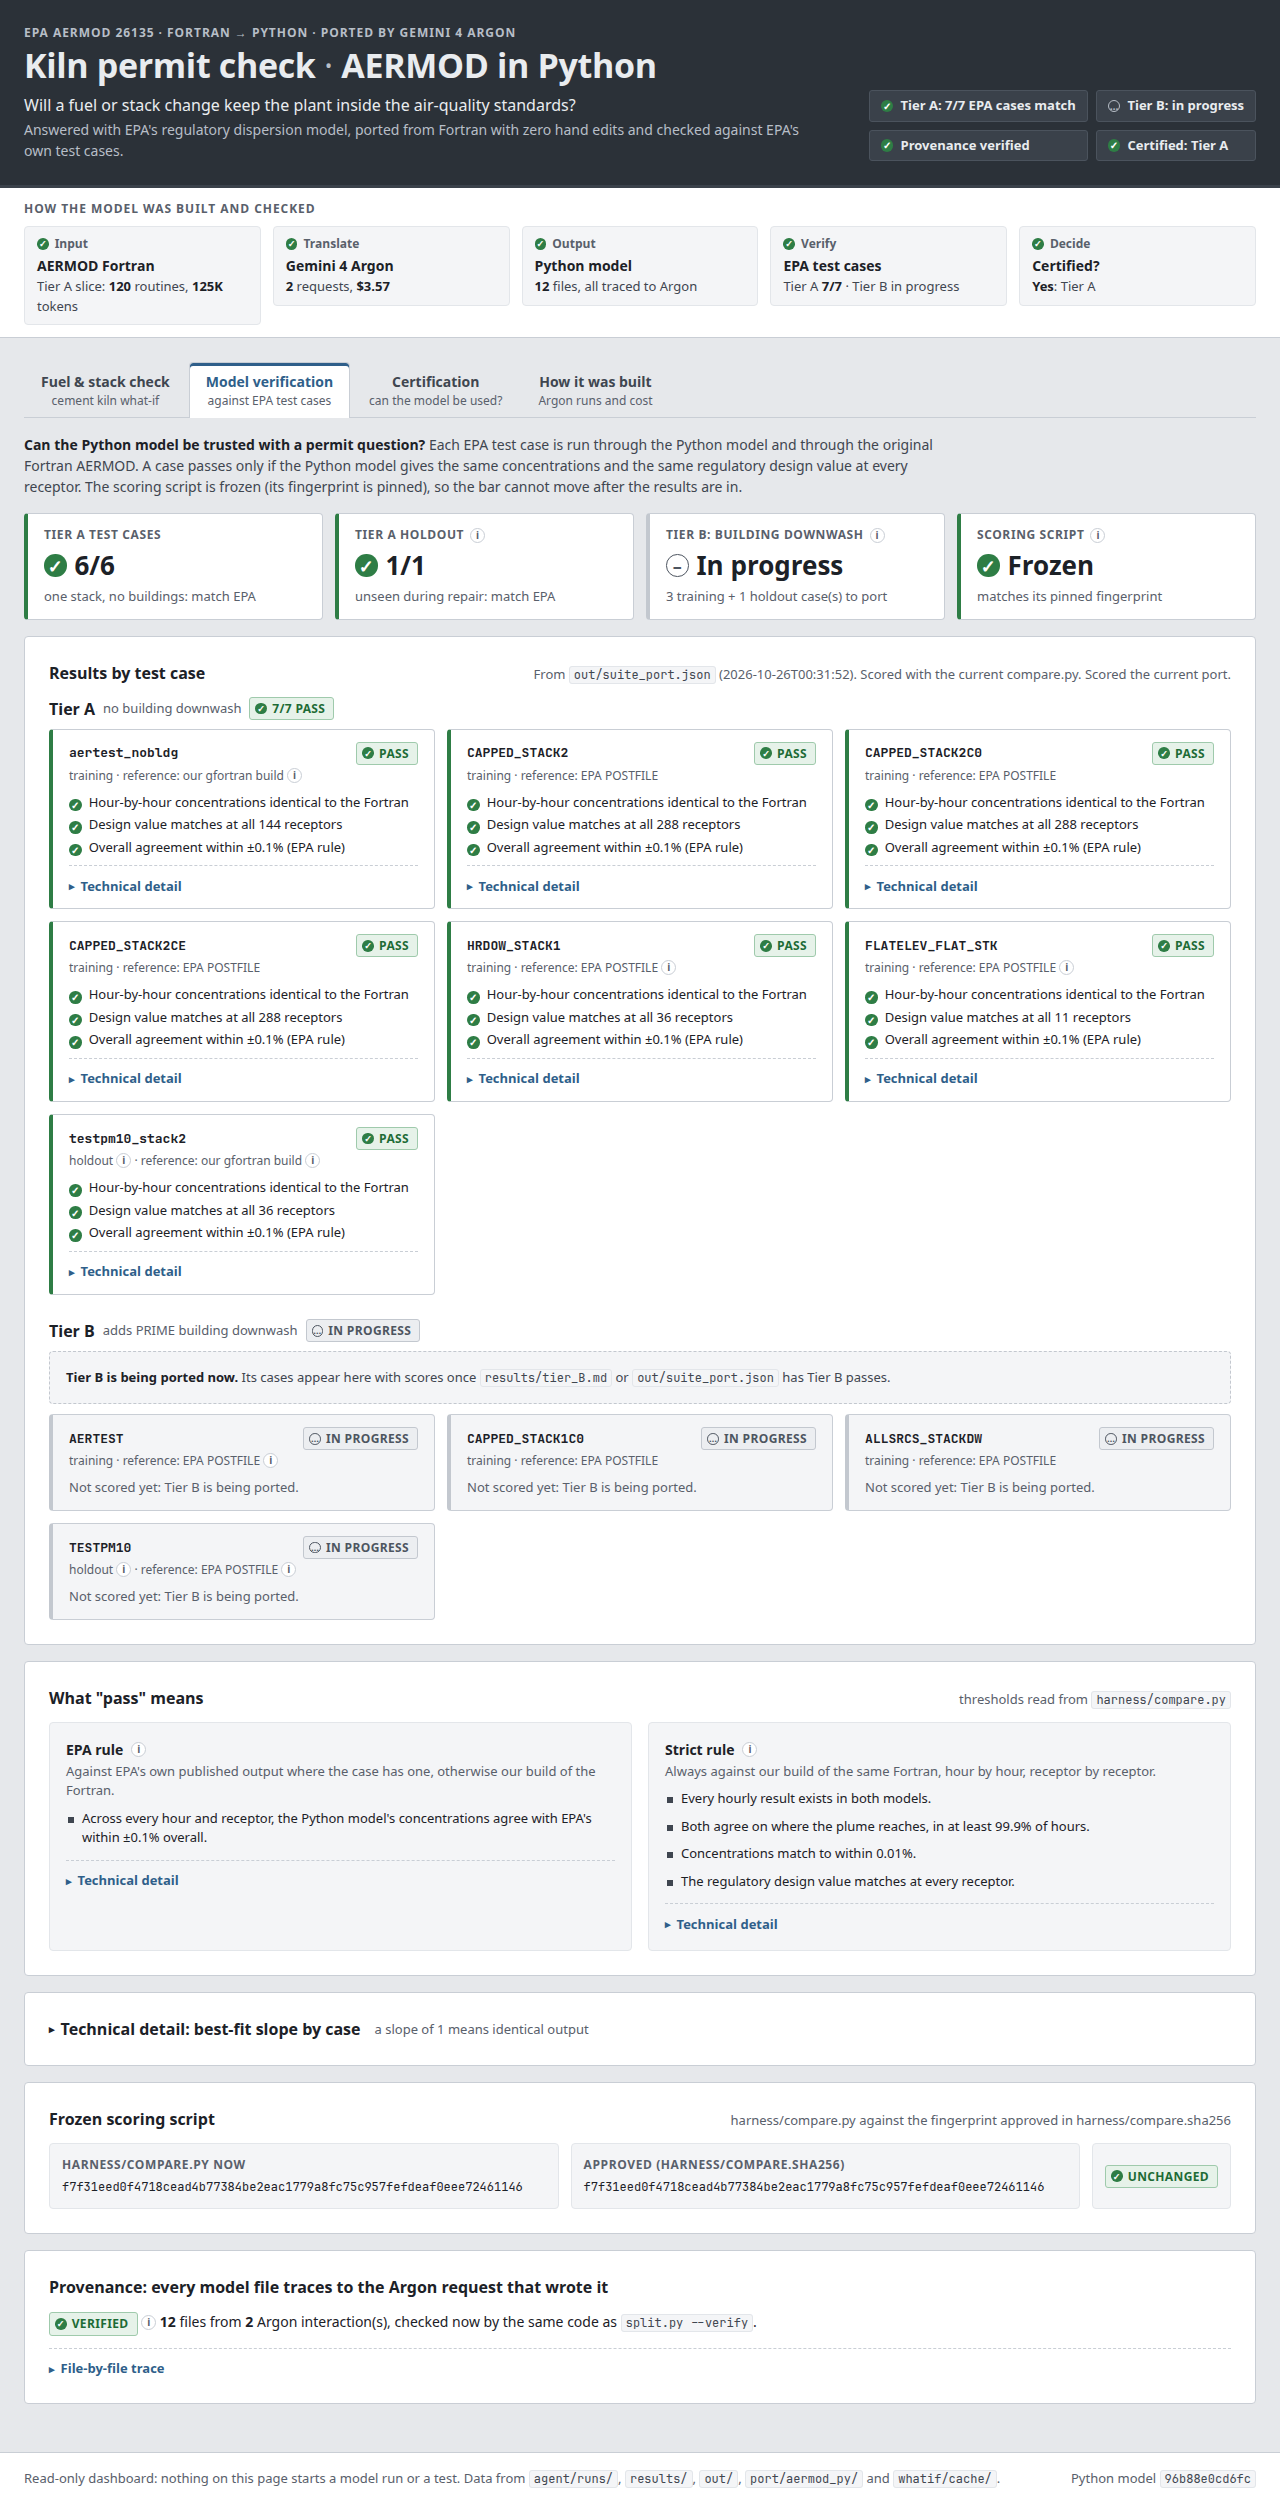
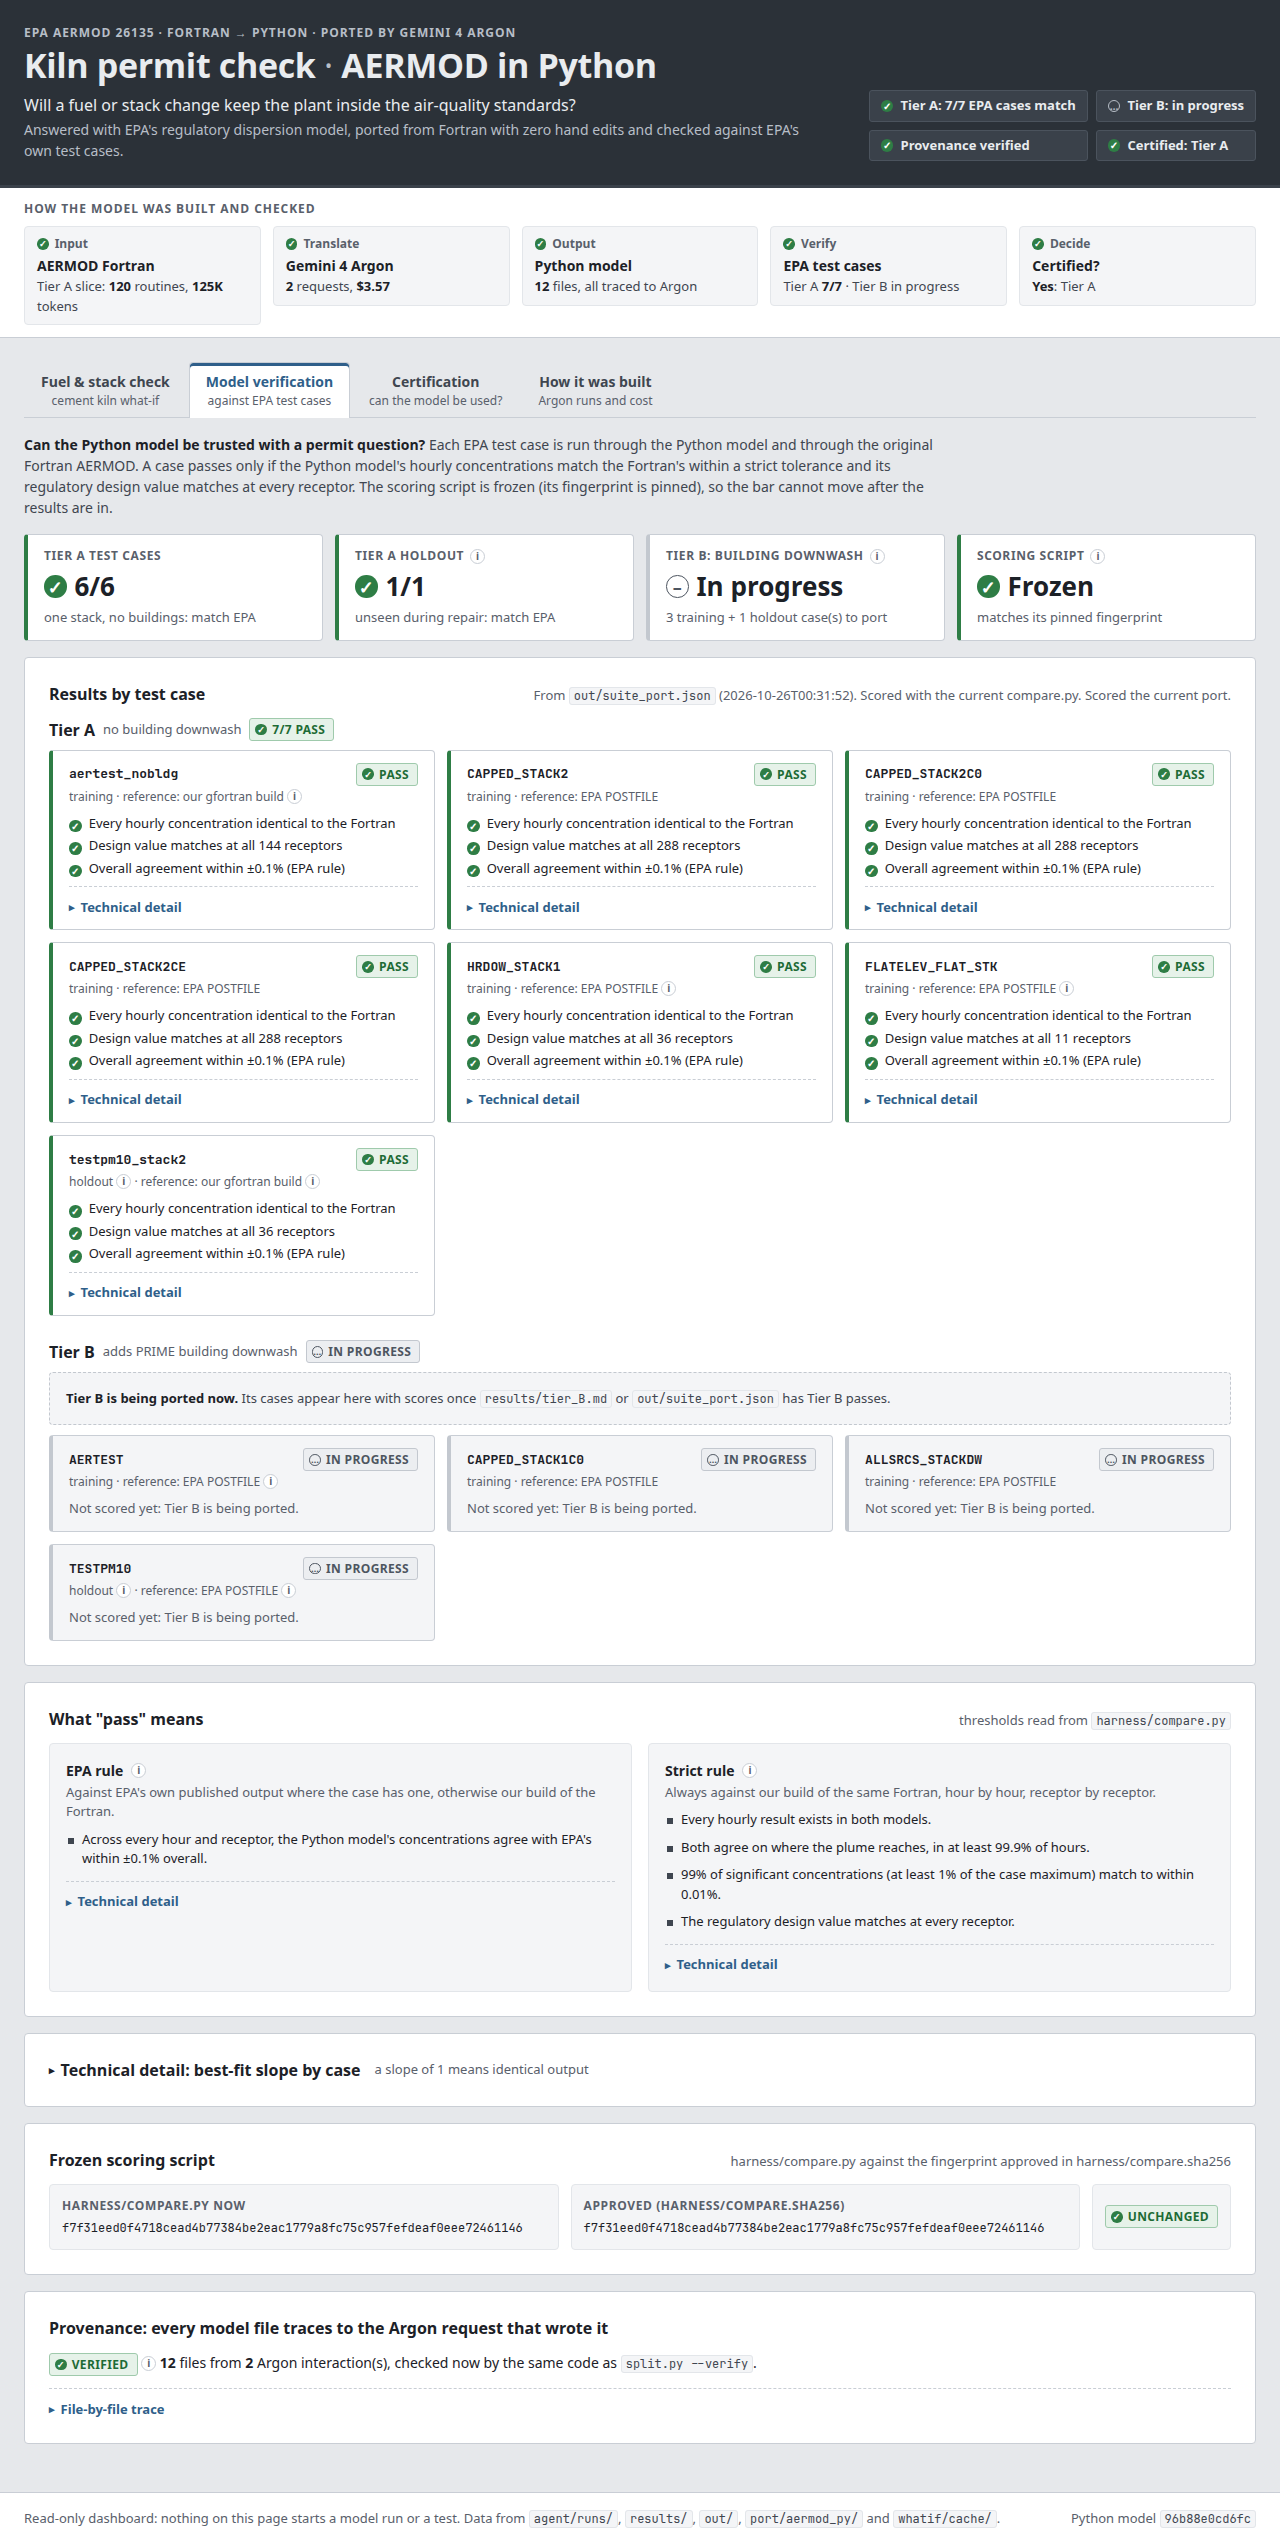
fix(ui): claim identical output only when the largest difference is zero
Per Greptile: the strict rule checks the 99th percentile of significant values,
so a zero p99 does not prove identical output. The suite's max_abs_diff is now
passed through and shown; otherwise the card states the percentile and cutoff.

diff --git a/ui/app.js b/ui/app.js
@@ -88,6 +88,8 @@ function glossary() {
     return {
         relPct: `${+(r.relative_tolerance * 100).toPrecision(3)}%`,
         slopePct: `${+(tol * 100).toPrecision(3)}%`,
+        pctl: `${r.percentile}%`,
+        sigPct: `${+(r.significant_fraction * 100).toPrecision(3)}%`,
         slope: `Plot every hourly concentration from the port against the reference and fit a line. A perfect port lies on a slope of exactly 1. The EPA rule allows 1 ± ${tol} (${+(tol * 100).toFixed(3)}%) and checks all three definitions EPA's kit uses: through the origin, ordinary least squares, and the ratio of the means.`,
         zero: `Share of paired hourly values where the port and the reference agree on whether there is any concentration at all (whether the plume reached the receptor). Must be at least ${pct(r.zero_agreement_min)}.`,
         p99: `Relative error |port − reference| / reference at the ${r.percentile}th percentile, over every value at least ${+(r.significant_fraction * 100).toFixed(2)}% of the case maximum. Must be ≤ ${rel}. 0 means the numbers are identical.`,
@@ -320,10 +322,11 @@ function caseCard(name, r, info, tierStatus, G) {
         const neutralFail = cls === 'prog' ? 'neutral' : 'bad';
         const mark = ok => ok === true ? ic('ok') : ok === false ? ic(neutralFail) : ic('neutral');
         const [fails, receptors] = String(r.h4h_fails ?? '').split('/').map(Number);
-        const exact = Number(r.p99_rel_err) === 0;
+        const identical = isNum(r.max_abs_diff) && Number(r.max_abs_diff) === 0;
         const plain = [
-            [r.strict_pass, exact && r.strict_pass ? 'Hour-by-hour concentrations identical to the Fortran'
-                : r.strict_pass ? `Hour-by-hour concentrations within ${G.relPct} of the Fortran` : 'Hour-by-hour concentrations differ from the Fortran'],
+            [r.strict_pass, identical && r.strict_pass ? 'Every hourly concentration identical to the Fortran'
+                : r.strict_pass ? `${G.pctl} of significant hourly concentrations within ${G.relPct} of the Fortran`
+                    : 'Hourly concentrations outside the strict rule'],
             Number.isFinite(receptors) && receptors > 0
                 ? [fails === 0, fails === 0 ? `Design value matches at all ${fmt(receptors)} receptors` : `Design value differs at ${fmt(fails)} of ${fmt(receptors)} receptors`]
                 : null,
@@ -336,6 +339,7 @@ function caseCard(name, r, info, tierStatus, G) {
             <dt>Strict rule ${tip(G.strict)}</dt><dd>${verdict(r.strict_pass)}</dd>
             <dt>&nbsp; Zero/nonzero agreement ${tip(G.zero)}</dt><dd>${isNum(r.zero_agreement) ? `${(100 * r.zero_agreement).toFixed(3)}%` : '–'}</dd>
             <dt>&nbsp; p99 relative error ${tip(G.p99)}</dt><dd>${p99}</dd>
+            <dt>&nbsp; Largest absolute difference</dt><dd>${isNum(r.max_abs_diff) ? (Number(r.max_abs_diff) === 0 ? '0 (identical)' : `${Number(r.max_abs_diff).toExponential(2)} µg/m³`) : 'not recorded'}</dd>
             <dt>&nbsp; H4H receptors failing ${tip(G.h4h)}</dt><dd>${esc((r.h4h_fails ?? '–').replace('/', ' / '))}</dd>
         </dl></div></details>`;
     } else {
@@ -416,7 +420,7 @@ async function loadProof() {
             <ul>
                 <li>Every hourly result exists in both models.</li>
                 <li>Both agree on where the plume reaches, in at least ${pct(r.zero_agreement_min)} of hours.</li>
-                <li>Concentrations match to within ${G.relPct}.</li>
+                <li>${G.pctl} of significant concentrations (at least ${G.sigPct} of the case maximum) match to within ${G.relPct}.</li>
                 <li>The regulatory design value matches at every receptor.</li>
             </ul>
             <details class="tech"><summary>Technical detail</summary><ul class="body tech-list">

diff --git a/ui/index.html b/ui/index.html
@@ -111,8 +111,8 @@
     <!-- Model verification -->
     <section id="proof" class="screen" role="tabpanel">
         <p class="lede"><b>Can the Python model be trusted with a permit question?</b> Each EPA test case is run through the Python model
-            and through the original Fortran AERMOD. A case passes only if the Python model gives the same concentrations and the same
-            regulatory design value at every receptor. The scoring script is frozen (its fingerprint is pinned), so the bar cannot move after the results are in.</p>
+            and through the original Fortran AERMOD. A case passes only if the Python model's hourly concentrations match the Fortran's within a strict tolerance
+            and its regulatory design value matches at every receptor. The scoring script is frozen (its fingerprint is pinned), so the bar cannot move after the results are in.</p>
         <div class="kpis" id="rates"><div class="kpi"><div class="loading">Loading scores…</div></div></div>
         <div class="panel">
             <div class="panel-head"><h2>Results by test case</h2><p id="score-source"></p></div>

diff --git a/tests/test_server.py b/tests/test_server.py
@@ -291,3 +291,9 @@ def test_frozen_reports_compare_thresholds():
     rules = TestClient(server.app).get("/api/frozen").json()["rules"]
     assert rules == {"slope_tolerance": 0.001, "zero_agreement_min": 0.999, "relative_tolerance": 1e-4,
                      "significant_fraction": 0.01, "percentile": 99.0}
+
+
+def test_suite_rows_carry_the_largest_absolute_difference(client):
+    row = {**passing("aertest_nobldg"), "strict": {"passes": True, "max_abs_diff": 0.0, "p99_rel_err": 0.0}}
+    suite([row], server.compare_hash())
+    assert client.get("/api/test-results").json()["results"]["aertest_nobldg"]["max_abs_diff"] == 0.0

diff --git a/server.py b/server.py
@@ -310,6 +310,7 @@ def _suite_row(r: dict) -> dict:
         "error": r.get("error"), "slope": epa.get("slope"), "slope_ols": epa.get("slope_ols"),
         "mean_ratio": epa.get("mean_ratio"), "p99_rel_err": strict.get("p99_rel_err"),
         "zero_agreement": strict.get("zero_agreement"),
+        "max_abs_diff": strict.get("max_abs_diff"),
         "h4h_max_rel_diff": strict.get("h4h_max_rel_diff"),
         "h4h_fails": f"{strict['h4h_n_fail']}/{strict['h4h_n_receptors']}"
         if "h4h_n_fail" in strict else None,

diff --git a/README.md b/README.md
@@ -132,7 +132,7 @@ make readme                                  # refresh the results block above
 | Tab | Shows | Read from |
 |---|---|---|
 | Fuel & stack check | The cement-kiln what-if below: a verdict card per scenario (% of the NAAQS, pass / near limit / exceeds), gauges against the standard line, the plume footprint | `whatif/kiln.toml`, `whatif/cache/` |
-| Model verification | Per EPA test case, in plain terms (same concentrations, same design value at every receptor), with slope, p99 and H4H one click down under "Technical detail"; the frozen digest; every file's provenance | `out/suite_port.json`, else `results/tier_*.md`; `harness/compare.py`; `split.trace` |
+| Model verification | Per EPA test case, in plain terms (hourly concentrations within the strict tolerance, design value matching at every receptor, "identical" only when the largest difference is exactly 0), with slope, p99 and H4H one click down under "Technical detail"; the frozen digest; every file's provenance | `out/suite_port.json`, else `results/tier_*.md`; `harness/compare.py`; `split.trace` |
 | Certification | Certified or not, for which tiers, with each criterion and why | all of the above, recomputed |
 | How it was built | Argon requests, tokens and cost per run; Fortran in scope; files each reply wrote; repair decisions; git history of the port | `agent/runs/`, `results/tier_*.md`, `context/tokens.json` |
 
